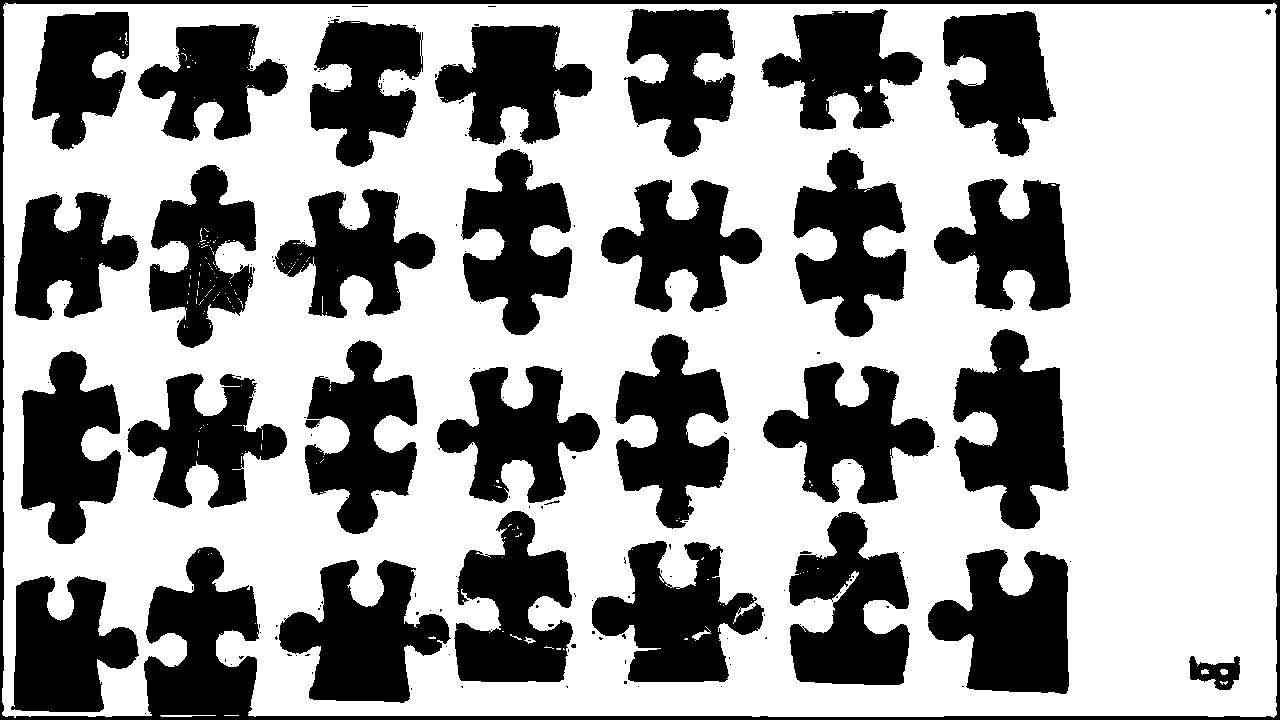
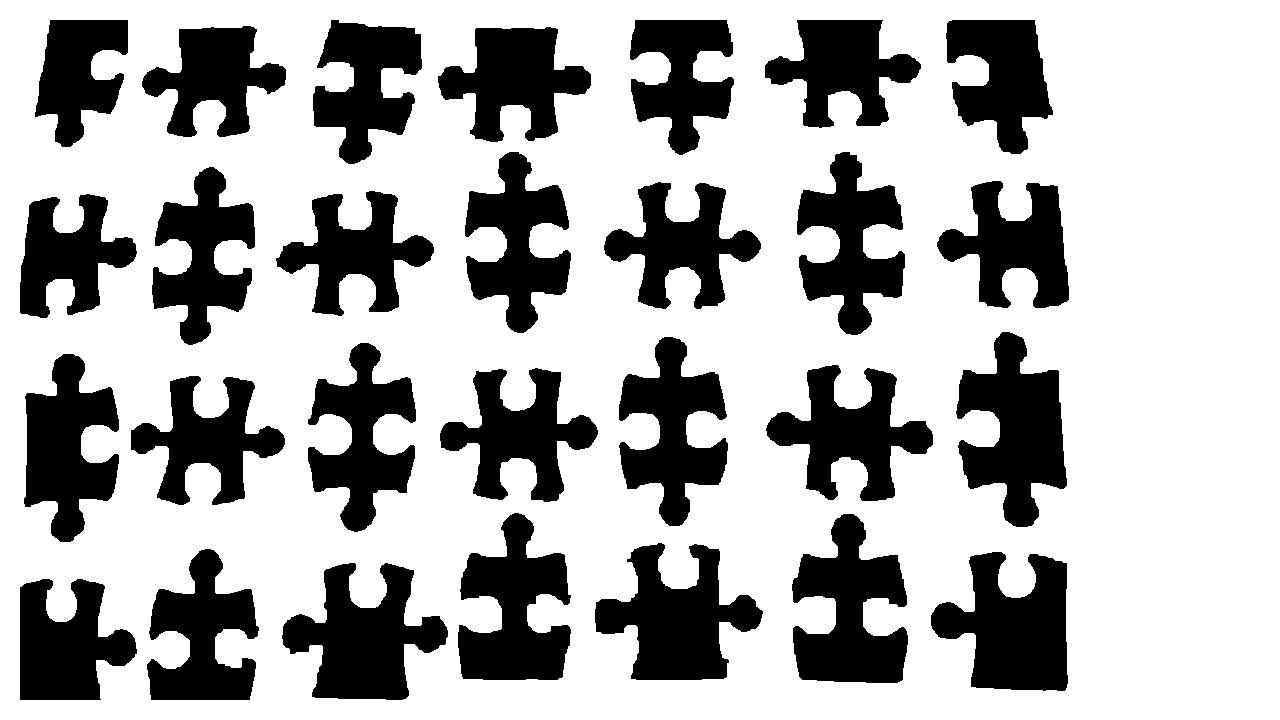
Wed Mar 12 06:29:28 PM CET 2025

diff --git a/src/analyse.cpp b/src/analyse.cpp
@@ -39,7 +39,6 @@ int main() {
         }
     }
 
-    write_boolean_array_as_grayscale("data/binary-mask.png", binaryMask);
 
     /* ---- Erase Little Bits and Fill Holes ---- */
     binaryMask = dilate(binaryMask, MathematicalMorphology::Square);
@@ -55,20 +54,22 @@ int main() {
 
     /* ---- Erase the Borders of the Image and the Logo ---- */
     for(int i = 0 ; i < width ; ++i) {
-        for(int j = 0 ; j < 20 ; ++j) { binaryMask(i, j) = 0; }
-        for(int j = height - 20 ; j < height ; ++j) { binaryMask(i, j) = 0; }
+        for(int j = 0 ; j < 20 ; ++j) { binaryMask(i, j) = 1; }
+        for(int j = height - 20 ; j < height ; ++j) { binaryMask(i, j) = 1; }
     }
 
     for(int j = 0 ; j < height ; ++j) {
-        for(int i = 0 ; i < 20 ; ++i) { binaryMask(i, j) = 0; }
-        for(int i = width - 20 ; i < width ; ++i) { binaryMask(i, j) = 0; }
+        for(int i = 0 ; i < 20 ; ++i) { binaryMask(i, j) = 1; }
+        for(int i = width - 20 ; i < width ; ++i) { binaryMask(i, j) = 1; }
     }
 
     for(int i = 1180 ; i <= 1250 ; ++i) {
         for(int j = 650 ; j <= 700 ; ++j) {
-            binaryMask(i, j) = 0;
+            binaryMask(i, j) = 1;
         }
     }
+
+    write_boolean_array_as_grayscale_image("data/binary-mask.png", binaryMask);
 
     /* Applies the Binary Mask to the Original Image and Writes the Result */
     // Image puzzle_original = read_image("data/puzzle.jpg", false);

diff --git a/src/MathematicalMorphology.cpp b/src/MathematicalMorphology.cpp
@@ -50,9 +50,7 @@ Array2D<bool> MathematicalMorphology::dilate(const Array2D<bool>& data, Structur
 
     for(unsigned int i = 0 ; i < data.rows ; ++i) {
         for(unsigned int j = 0 ; j < data.columns ; ++j) {
-            if(applyStructuringElement(data, i, j, structuringElement) > 0) {
-                result(i, j) = 0;
-            }
+            result(i, j) = applyStructuringElement(data, i, j, structuringElement) == 0;
         }
     }
 
@@ -66,9 +64,7 @@ Array2D<bool> MathematicalMorphology::erode(const Array2D<bool>& data, Structuri
 
     for(unsigned int i = 0 ; i < data.rows ; ++i) {
         for(unsigned int j = 0 ; j < data.columns ; ++j) {
-            if(applyStructuringElement(data, i, j, structuringElement) < neighbors) {
-                result(i, j) = 1;
-            }
+            result(i, j) = applyStructuringElement(data, i, j, structuringElement) < neighbors;
         }
     }
 

diff --git a/src/utility.cpp b/src/utility.cpp
@@ -54,7 +54,7 @@ bool isColorSimilar(const Color& color, const Color& base, const Color& epsilon)
            && isValueSimilar(color.b, base.b, epsilon.b);
 }
 
-void write_boolean_array_as_grayscale(const std::string& path, const Array2D<bool>& data) {
+void write_boolean_array_as_grayscale_image(const std::string& path, const Array2D<bool>& data) {
     std::vector<unsigned char> temp;
 
     for(unsigned int i = 0 ; i < data.columns ; ++i) {

diff --git a/include/utility.hpp b/include/utility.hpp
@@ -24,4 +24,4 @@ bool operator==(const Color& first, const Color& second);
 bool isValueSimilar(float value, float base, float epsilon);
 bool isColorSimilar(const Color& color, const Color& base, const Color& epsilon);
 
-void write_boolean_array_as_grayscale(const std::string& path, const Array2D<bool>& data);
+void write_boolean_array_as_grayscale_image(const std::string& path, const Array2D<bool>& data);
